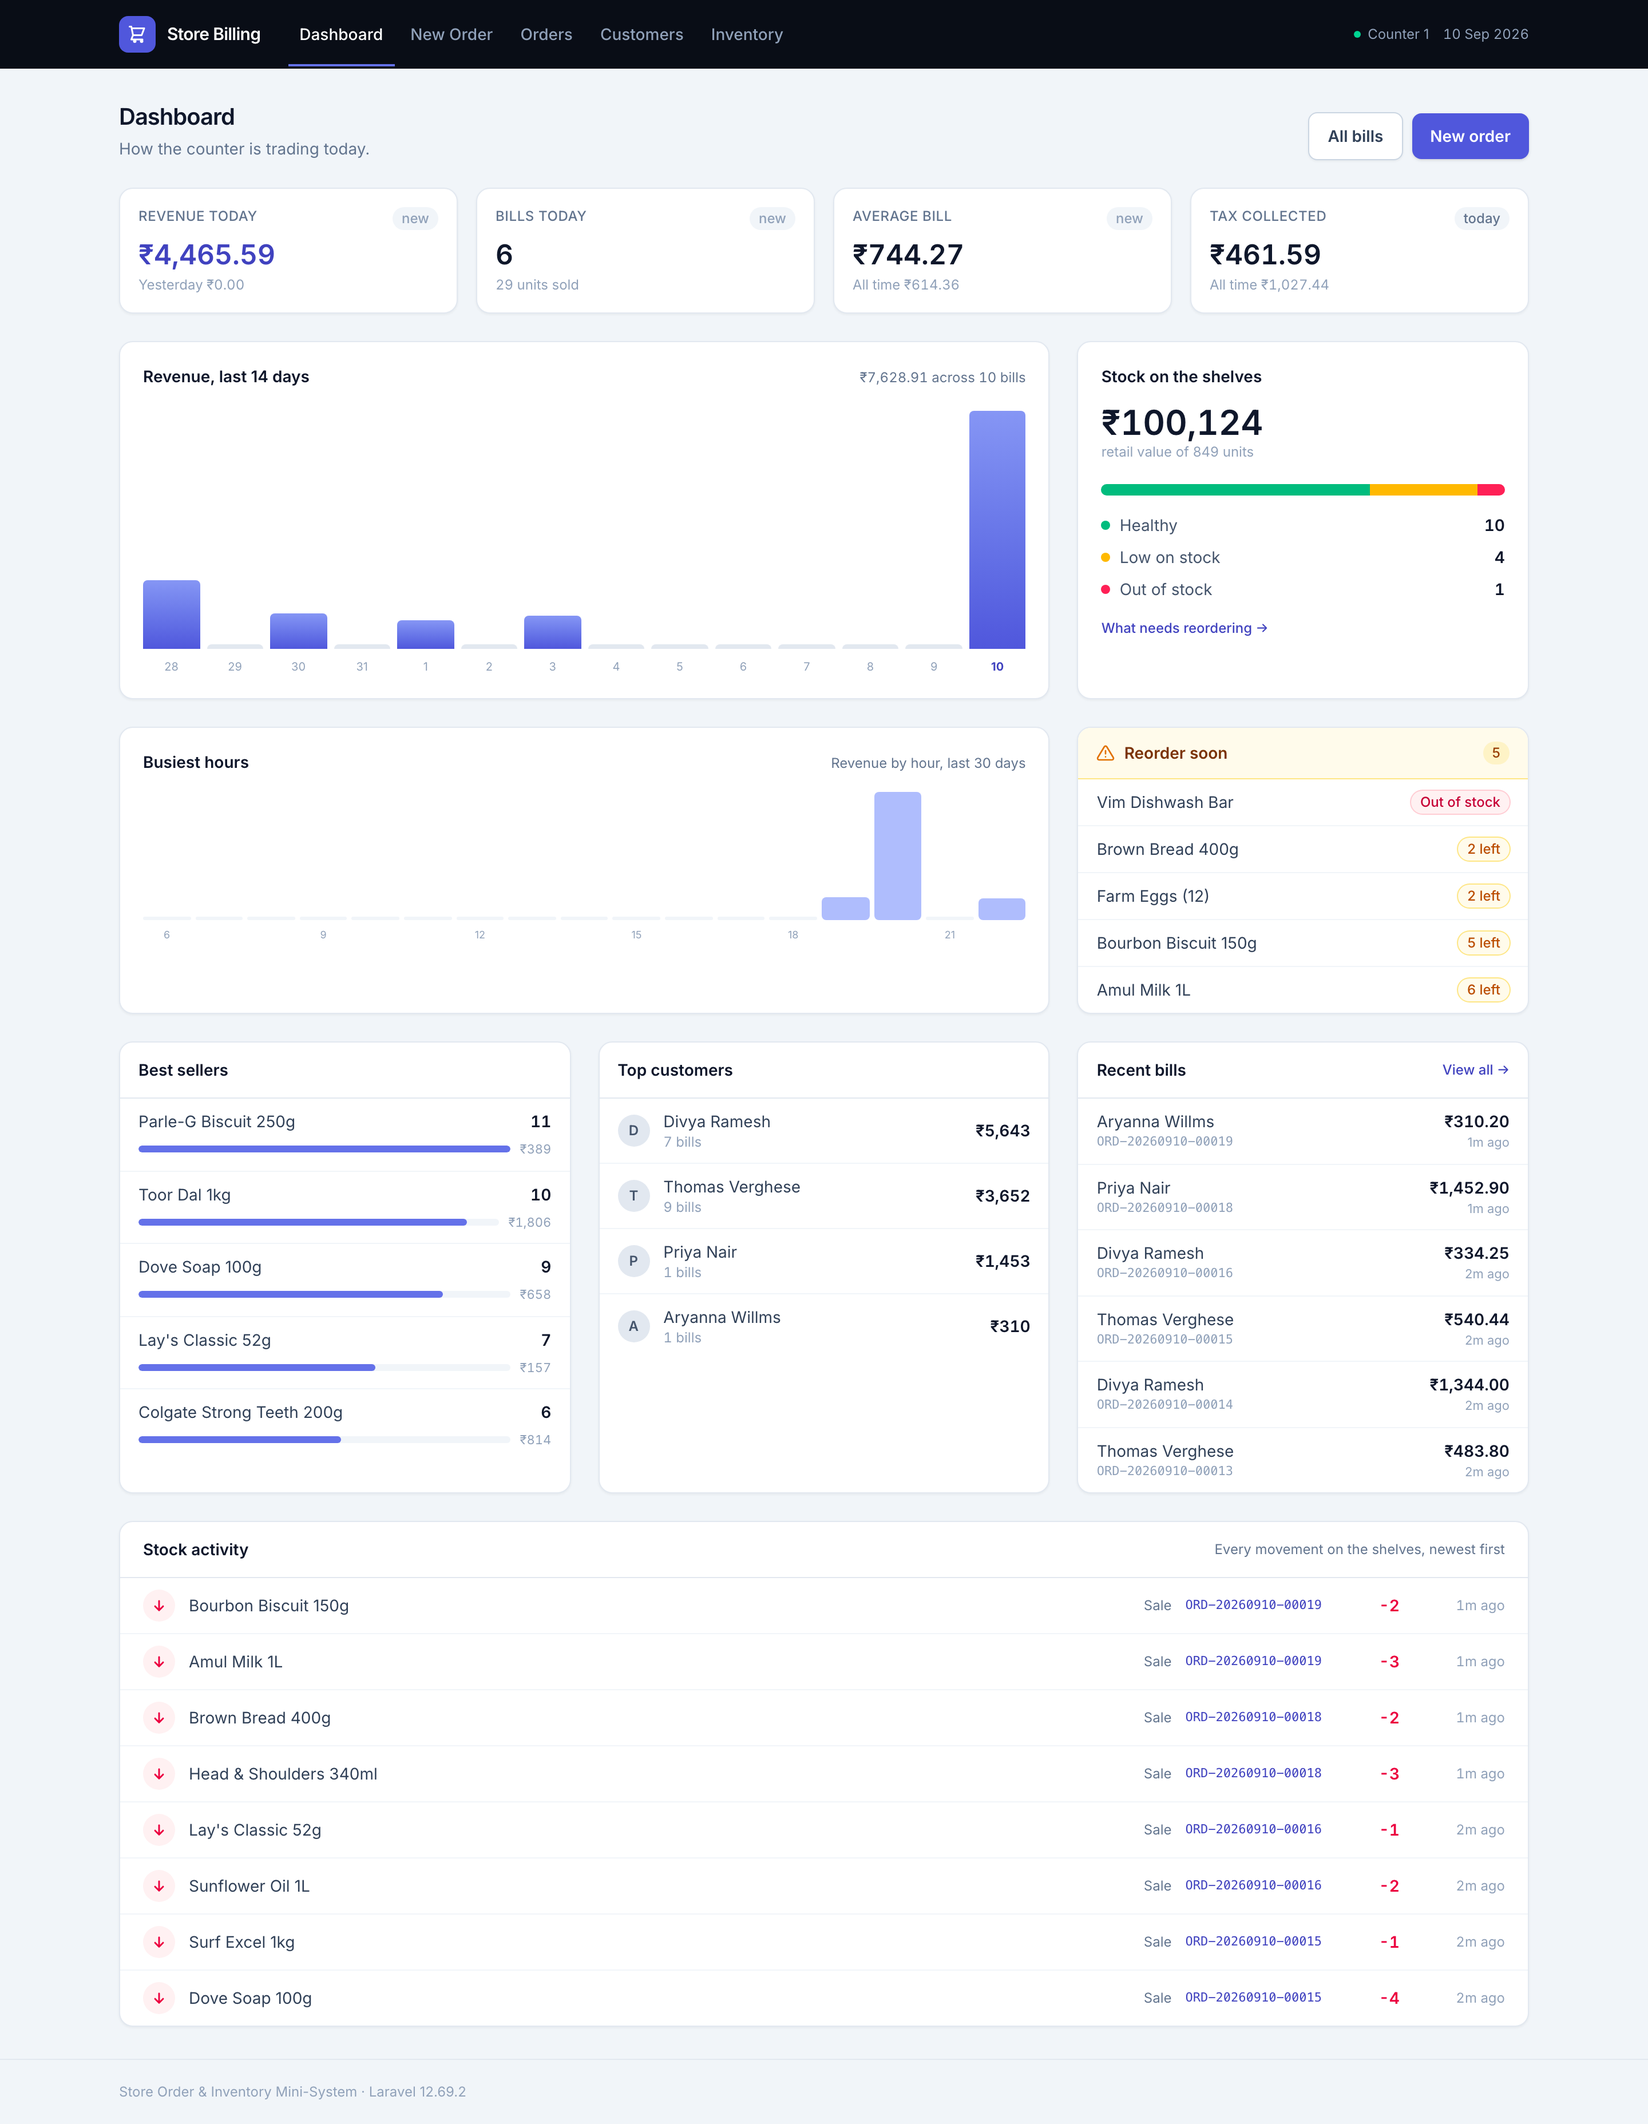
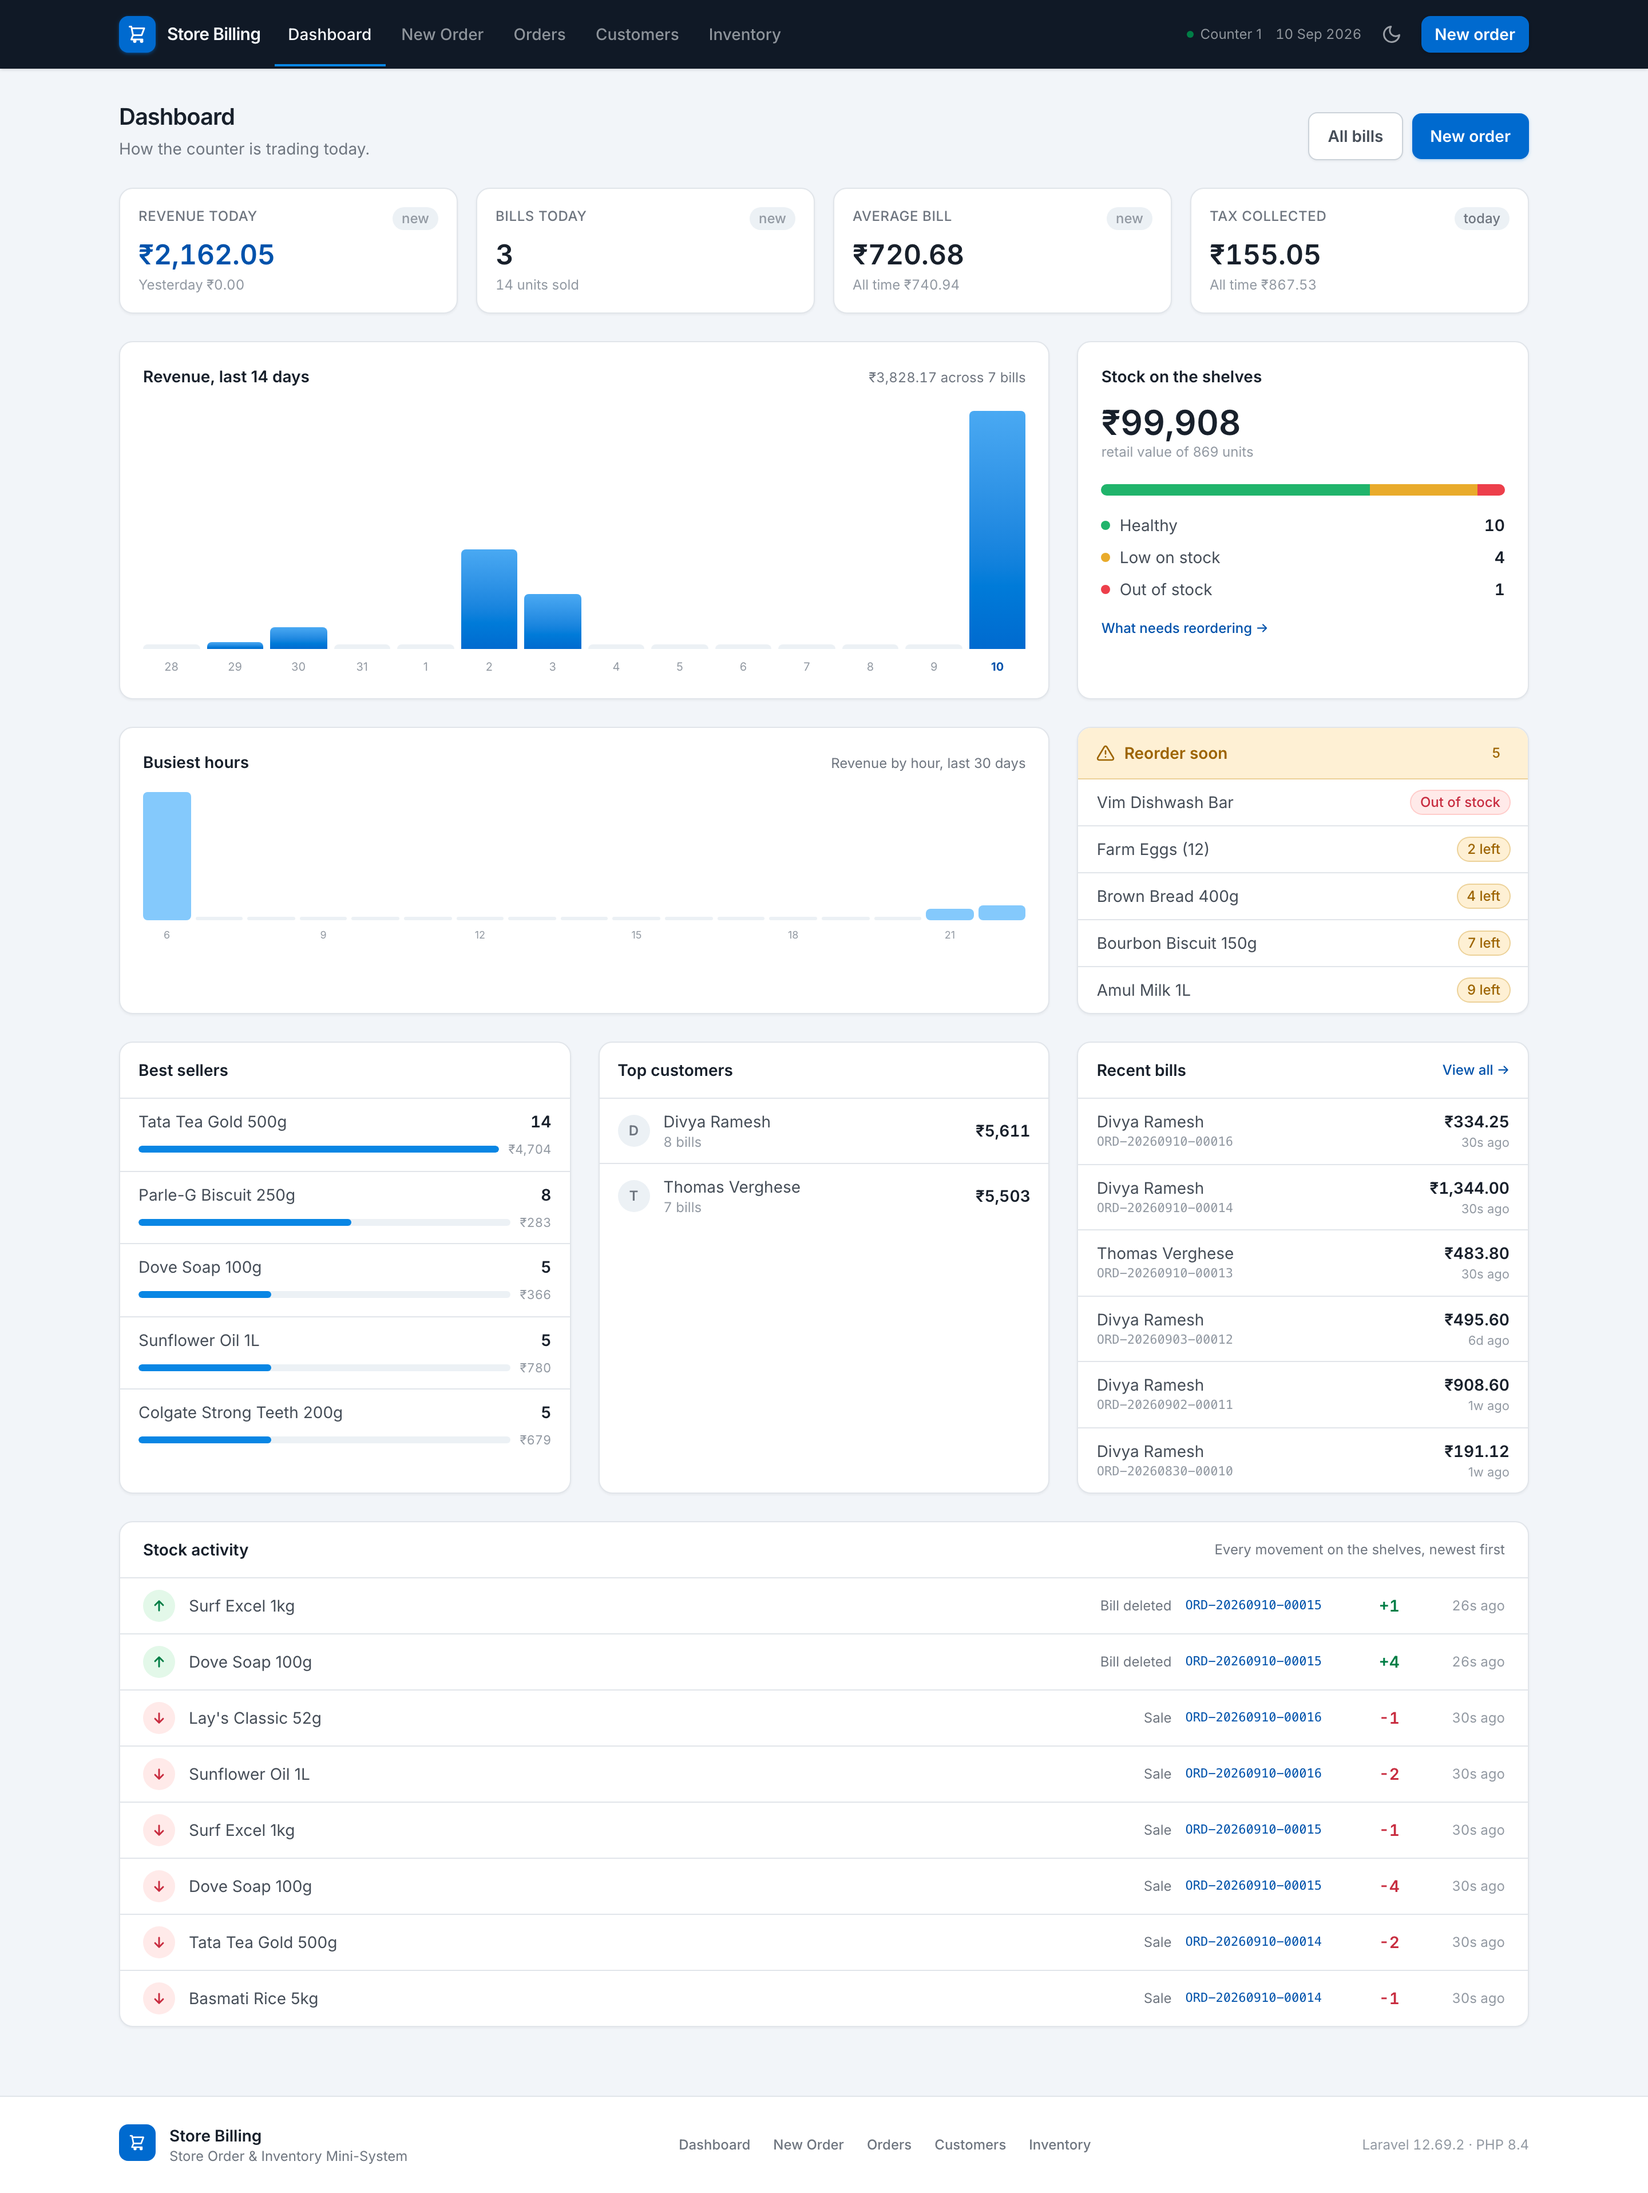
Update the screenshots and documentation

diff --git a/README.md b/README.md
@@ -7,7 +7,7 @@ Built as a take-home assignment for Mallow Technologies. The JSON API is the par
 specifies; the screens on top of it use that same API.
 
 **Laravel 12** · **PHP 8.4** · **MySQL 8+ / MariaDB** (PostgreSQL works unchanged) ·
-**Blade + Alpine.js + Tailwind 4** · **84 tests**
+**Blade + Alpine.js + Tailwind 4** · **light and dark** · **84 tests**
 
 ![Dashboard](docs/screenshots/01-dashboard.png)
 
@@ -35,27 +35,36 @@ specifies; the screens on top of it use that same API.
 ```bash
 git clone <repo-url> store-billing
 cd store-billing
-
 composer install
-cp .env.example .env
-php artisan key:generate
 ```
 
-Point the `DB_*` block in `.env` at your server, then create and fill the schema:
+Point the `DB_*` block in `.env.example` at your server — or leave it alone if you have MySQL on
+`127.0.0.1:3306` as root — then:
 
 ```bash
-mysql -u root -p -e "CREATE DATABASE store_billing"
-php artisan migrate --seed
+composer setup
 ```
 
-Build the front end and start the app. The queue worker is a separate process, which is the point
-of putting the confirmation email on a queue in the first place:
+That copies `.env`, generates the key, **creates the database if it does not exist**, migrates,
+seeds, installs the front-end packages and builds them. It is idempotent: run it again and it skips
+whatever is already done. `php artisan app:install --fresh` rebuilds the schema from scratch.
+
+Then start everything with one command:
 
 ```bash
-npm install && npm run build     # Node 20+ (Vite 7 / Tailwind 4)
+composer dev
+```
+
+which runs the web server, the **queue worker**, the log tailer and Vite together. To keep them
+apart:
+
+```bash
 php artisan serve                # http://localhost:8000
 php artisan queue:work           # in a second terminal
 ```
+
+The worker is a separate process on purpose — that is the point of putting the confirmation email
+on a queue rather than sending it inline.
 
 The seed leaves you fifteen products (a few deliberately short on stock so the low-stock alert has
 something to show), ten customers and twelve past bills. Two customers have predictable emails for
@@ -63,6 +72,15 @@ testing: `thomas@example.com` and `divya@example.com`.
 
 Confirmation emails do not go over SMTP. `MAIL_MAILER=log` writes each rendered message to
 `storage/logs/laravel.log`, so you can watch the worker pick a job up and read the bill it produced.
+
+### Running the tests
+
+```bash
+php artisan test
+```
+
+They run on in-memory SQLite and need no setup at all. One test — the concurrency one — wants a
+reachable MySQL server and skips with a message if there is not one.
 
 ---
 
@@ -101,6 +119,8 @@ Confirmation emails do not go over SMTP. `MAIL_MAILER=log` writes each rendered 
 **Everywhere**
 
 - Every listing paginates, with a page-size selector that keeps the filters you set
+- Light and dark, following the operating system until the header toggle overrides it
+- Responsive from 390px up, with the navigation collapsing into a drawer on small screens
 
 **Customers**
 
@@ -122,96 +142,107 @@ Confirmation emails do not go over SMTP. `MAIL_MAILER=log` writes each rendered 
 | `/customers`, `/customers/{customer}` | Customers and their history |
 | `/products`, `/products/{product}` | Inventory and a product's stock ledger |
 
+### Dashboard
+
+![Dashboard](docs/screenshots/01-dashboard.png)
+
+The whole app is light or dark. The choice follows the operating system until someone touches the
+toggle in the header, after which it is remembered.
+
+![Dashboard in dark mode](docs/screenshots/02-dashboard-dark.png)
+
 ### New Order
 
 The bill is built in three numbered steps down one column — customer, items, payment — with what
 needs reordering kept out of the way in the side column.
 
-![New order](docs/screenshots/04-new-order-filled.png)
+![New order](docs/screenshots/05-new-order-filled.png)
 
 The customer comes from a searchable dropdown of everyone on file.
 
-![Customer picker](docs/screenshots/03-customer-picker.png)
+![Customer picker](docs/screenshots/04-customer-picker.png)
 
 A walk-in who is not on file yet is added inline, without leaving the bill.
 
-![New customer](docs/screenshots/05-new-customer-inline.png)
+![New customer](docs/screenshots/06-new-customer-inline.png)
 
 Products are a card grid rather than a dropdown: search filters it live, a tap adds a unit, and a
 card that is already on the bill carries its quantity.
 
-![New order, empty](docs/screenshots/02-new-order-empty.png)
+![New order, empty](docs/screenshots/03-new-order-empty.png)
 
 ### Validation
 
 The client catches the obvious cases before a request is made.
 
-![Validation](docs/screenshots/06-validation-errors.png)
+![Validation](docs/screenshots/07-validation-errors.png)
 
 Anything the server rejects comes back onto the field that caused it. A stock shortage highlights
 the offending row and says how many are actually left — that number is the server's answer, not the
 browser's guess.
 
-![Stock shortage](docs/screenshots/07-stock-shortage.png)
+![Stock shortage](docs/screenshots/08-stock-shortage.png)
 
 ### Orders
 
 Every bill, with View, Edit and Delete on the row.
 
-![Orders](docs/screenshots/08-orders.png)
+![Orders](docs/screenshots/09-orders.png)
 
 A deleted bill is not gone: it stays under its own filter, marked, and can still be opened.
 
-![Deleted bills](docs/screenshots/09-orders-deleted.png)
+![Deleted bills](docs/screenshots/10-orders-deleted.png)
 
-![Bill](docs/screenshots/10-bill.png)
+![Bill](docs/screenshots/11-bill.png)
 
 ### Editing and deleting
 
 Editing reopens the bill with its lines loaded and the units it already holds added back to
 sellable stock, so a cashier can raise a quantity without the screen claiming there is none left.
 
-![Edit a bill](docs/screenshots/11-edit-bill.png)
+![Edit a bill](docs/screenshots/12-edit-bill.png)
 
-![Delete a bill](docs/screenshots/12-delete-bill.png)
+![Delete a bill](docs/screenshots/13-delete-bill.png)
 
 ### Customers
 
 Add, edit and delete from the list.
 
-![Customers](docs/screenshots/13-customers.png)
+![Customers](docs/screenshots/14-customers.png)
 
-![Customer form](docs/screenshots/14-customer-form.png)
+![Customer form](docs/screenshots/15-customer-form.png)
 
-![Customer detail](docs/screenshots/15-customer-detail.png)
+![Customer detail](docs/screenshots/16-customer-detail.png)
 
 ### Inventory
 
 The catalogue is managed here: add a product, edit it, restock it, or take it off the shelf.
 
-![Inventory](docs/screenshots/16-inventory.png)
+![Inventory](docs/screenshots/17-inventory.png)
 
-![Product form](docs/screenshots/17-product-form.png)
+![Product form](docs/screenshots/18-product-form.png)
 
 Stock is deliberately **not** editable on that form. It moves when a bill is raised, edited or
 deleted, and when a product is restocked — every change writes a ledger row, and letting someone
 type over the number would put the shelf and the ledger out of step with nothing explaining it.
 
-![Restock](docs/screenshots/18-restock.png)
+![Restock](docs/screenshots/19-restock.png)
 
 Every product carries its own ledger. Sales, edits, deletions and restocks all land here with the
 balance they left behind.
 
-![Stock ledger](docs/screenshots/19-stock-ledger.png)
+![Stock ledger](docs/screenshots/20-stock-ledger-dark.png)
 
 ### On a phone
 
-Every screen works down to 390px. Wide tables scroll inside their own container so the page itself
-never scrolls sideways.
+Every screen works down to 390px with no horizontal overflow anywhere — wide tables scroll inside
+their own container rather than pushing the page sideways. Below `md` the navigation collapses into
+a drawer.
 
 <p>
-<img src="docs/screenshots/20-mobile-dashboard.png" width="300" alt="The dashboard on a phone">
-<img src="docs/screenshots/21-mobile-pos.png" width="300" alt="The counter screen on a phone">
+<img src="docs/screenshots/21-mobile-dashboard.png" width="240" alt="The dashboard on a phone">
+<img src="docs/screenshots/22-mobile-pos.png" width="240" alt="The counter screen on a phone">
+<img src="docs/screenshots/23-mobile-menu-dark.png" width="240" alt="The navigation drawer in dark mode">
 </p>
 
 ---
@@ -567,7 +598,7 @@ cases I would expect to break in production.
 | 7. Safe under concurrent requests | [Concurrency](#no-overselling-under-concurrent-requests), [`ConcurrentOrderTest`](tests/Feature/ConcurrentOrderTest.php) |
 | Eloquent relationships, migrations, form-request validation | [`app/Models`](app/Models), [`app/Http/Requests`](app/Http/Requests) |
 | Thin controllers, logic in services | [`app/Services`](app/Services) — controllers validate, delegate, return a resource |
-| README with setup and assumptions | this file |
+| README with setup and assumptions | this file, plus `composer setup` |
 | Prompt log | [`prompts/`](prompts/) |
 | Screen recording | script in [`docs/RECORDING-SCRIPT.md`](docs/RECORDING-SCRIPT.md) |
 
@@ -658,6 +689,19 @@ pagination options a history endpoint wants anyway.
 **Products cannot be deleted** once they appear on a bill — the foreign key is `restrictOnDelete`.
 Deleting a product would orphan the history that the order-line snapshot exists to preserve.
 
+**Dark mode is one design with two sets of values, not two sets of classes.** Every colour a screen
+uses resolves through a semantic token — `surface`, `line`, `ink`, `body`, `muted`, `brand`,
+`success`, `warn`, `danger` — declared once in [`app.css`](resources/css/app.css) and redeclared
+under `.dark`. No view carries a `dark:` variant, so there is one place to change a colour and no
+way for the two themes to drift apart.
+
+Two of those tokens exist in pairs. `warn` is the text colour, dark enough to read on a pale
+background; `warn-fill` is the same hue at the lightness a solid bar or dot wants. Using one for
+both is what turns an amber legend dot into a brown one.
+
+The class is applied by a small inline script in the `<head>`, before the stylesheet paints, so a
+reload in dark mode never flashes white.
+
 **The code carries no comments.** Reasoning that would have gone in a comment is in this README
 instead, next to the decision it explains. Docblocks are kept only where they carry types a reader
 or static analysis needs.
@@ -683,6 +727,7 @@ app/
   Services/InventoryService.php       Restocking
   Services/DashboardMetrics.php       Dashboard queries, kept out of the controller
   Support/PerPage.php                 The page sizes the listings will accept
+  Console/Commands/Install.php        One-command setup: env, key, database, schema, seed
   Support/Money.php                   Integer-paise arithmetic
   Support/CashDrawer.php              Change split into notes and coins
 resources/js/
@@ -693,6 +738,8 @@ resources/js/
   components/deleteOrder.js           Delete confirmation
   components/restockProduct.js        Restock dialog
   stores/toasts.js                    Shared success and failure notifications
+  stores/theme.js                     Light/dark choice, remembered per browser
+resources/css/app.css                 Design tokens for both themes, and the component classes
 resources/views/
   components/                         Blade UI kit: field, stat, stock-badge, empty-state,
                                       modal, pagination, trend

diff --git a/prompts/README.md b/prompts/README.md
@@ -123,12 +123,30 @@ Two things I pushed back on in the generated shape:
   does not exist in SQLite at all, so the whole dashboard 500'd under the test suite. The
   expressions are chosen per driver now.
 
-## 12. Comments
+## 12. Theme, shell and setup
+
+Asked for a stronger theme, a proper header and footer, easy setup and a responsive check.
+
+The theme went to a deep azure blue with a dark mode. The first pass at dark mode came back as
+`dark:` variants sprinkled across every view, which is how the two themes drift apart — one gets
+updated and the other does not. Rewrote it as semantic tokens (`surface`, `line`, `ink`, `body`,
+`muted`, and the status colours) declared once and redeclared under `.dark`, so no view knows which
+theme it is in.
+
+That surfaced a subtlety worth recording: `warn` has to be dark enough to read as text on a pale
+card, and a solid bar or legend dot wants the same hue much lighter. Using one value for both made
+the amber segment of the stock-health bar render brown. They are separate tokens now.
+
+Setup became `composer setup`, which runs an `app:install` command that copies the env file,
+generates the key, **creates the database if it is missing**, migrates and seeds — and skips
+whatever is already done, so it is safe to re-run.
+
+## 13. Comments
 
 Asked for the code to be stripped of comments and the reasoning moved into the README, next to the
 decision it explains. Docblocks were kept only where they carry types.
 
-## 13. Bugs the assistant introduced, and how they were caught
+## 14. Bugs the assistant introduced, and how they were caught
 
 Worth recording, since the brief asks how well the tooling was used rather than whether it was:
 
